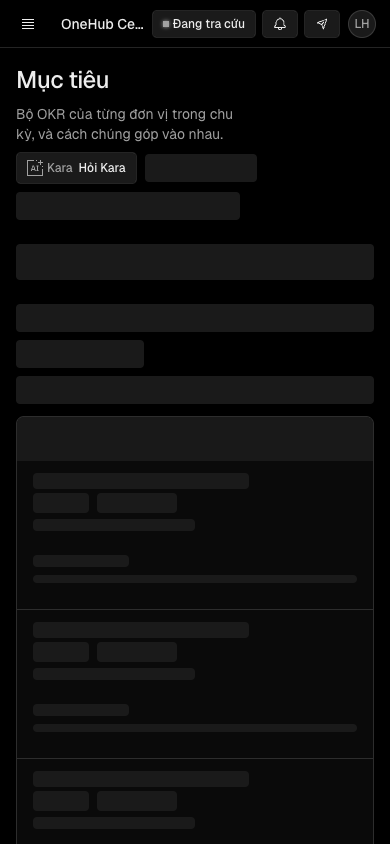
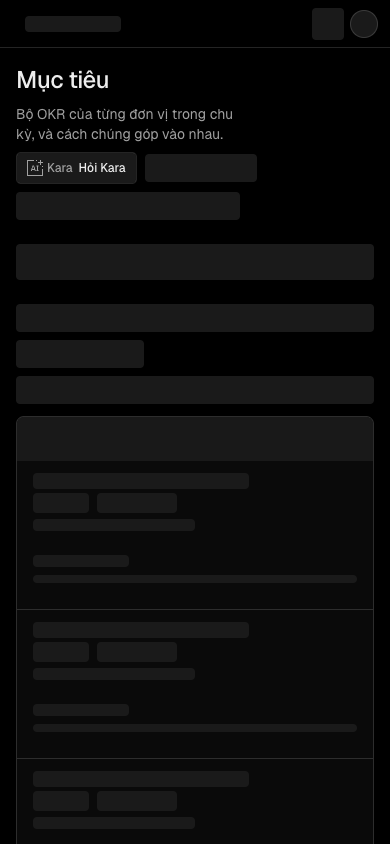
verify(khung-cho-don-vi-mot-hinh): S4 vòng 1 REJECT — suite app đỏ ở bài khung-man-chung (bảng hình của hồ sơ đã ký)

Changed region(s): [[0.3692, 0.0, 0.9538, 0.0616], [0.0615, 0.0, 0.3385, 0.0616]]

diff --git a/_acceptance/khung-cho-don-vi-mot-hinh/evidence-report.md b/_acceptance/khung-cho-don-vi-mot-hinh/evidence-report.md
@@ -1,0 +1,202 @@
+---
+schema_version: 2
+feature_slug: khung-cho-don-vi-mot-hinh
+verdict: REJECT
+failed_evals: []
+reason:
+verified_by: fresh-context verification subagent
+enforcement_mode: strict
+bypass_used: false
+verified_commit: 2338bd484502f1369e92b934c15a02b72e531c55
+human_signoff:
+---
+
+# Evidence Report: khung-cho-don-vi-mot-hinh
+
+Verdict tổng REJECT. Cả chín eval của hợp đồng đạt, nhưng một lệnh suite hồi quy không gắn eval nào cho kết quả không đạt: `bun run test -- --filter=app --filter=@crm/ui` (xem mục «Lệnh suite (hồi quy)» và Iterations). Danh sách `failed_evals` để trống vì lệnh này không thuộc eval nào.
+
+| Eval | Criterion | Executor | Verdict |
+|---|---|---|---|
+| E1 | AC-1 | script | PASS |
+| E2 | AC-2 | script | PASS |
+| E3 | AC-3 | script | PASS |
+| E4 | AC-4 | script | PASS |
+| E5 | AC-5 | test | PASS |
+| E6 | AC-6 | test | PASS |
+| E7 | AC-6 | script | PASS |
+| E8 | AC-7 | test | PASS |
+| E9 | AC-1, AC-4 | ui-check | PASS |
+
+## Evidence
+
+- eval: E1
+  run_id: minted-khung-cho-don-vi-mot-hinh-E1-r1
+  exit_code: 0
+  baseline: red
+  verifier: config:executors.script.kcd_man
+  verified_at: 2026-10-20T12:46:44Z
+  output: |
+    lệnh: bun scripts/lan-do/tien-de.mjs --chay "bun _acceptance/khung-cho-don-vi-mot-hinh/rang/man-khung-cho.mjs"
+    phien-do: xong — mã 0
+
+- eval: E2
+  run_id: minted-khung-cho-don-vi-mot-hinh-E2-r1
+  exit_code: 0
+  baseline: red
+  verifier: config:executors.script.kcd_man
+  verified_at: 2026-10-20T12:46:44Z
+  output: |
+    lệnh: bun scripts/lan-do/tien-de.mjs --chay "bun _acceptance/khung-cho-don-vi-mot-hinh/rang/man-khung-cho.mjs"
+    phien-do: xong — mã 0
+
+- eval: E3
+  run_id: minted-khung-cho-don-vi-mot-hinh-E3-r1
+  exit_code: 0
+  baseline: red
+  verifier: config:executors.script.kcd_man
+  verified_at: 2026-10-20T12:46:44Z
+  output: |
+    lệnh: bun scripts/lan-do/tien-de.mjs --chay "bun _acceptance/khung-cho-don-vi-mot-hinh/rang/man-khung-cho.mjs"
+    phien-do: xong — mã 0
+
+- eval: E4
+  run_id: minted-khung-cho-don-vi-mot-hinh-E4-r1
+  exit_code: 0
+  baseline: red
+  verifier: config:executors.script.kcd_man
+  verified_at: 2026-10-20T12:46:44Z
+  output: |
+    lệnh: bun scripts/lan-do/tien-de.mjs --chay "bun _acceptance/khung-cho-don-vi-mot-hinh/rang/man-khung-cho.mjs"
+    phien-do: xong — mã 0
+
+- eval: E5
+  run_id: minted-khung-cho-don-vi-mot-hinh-E5-r1
+  exit_code: 0
+  baseline: n-a
+  verifier: config:executors.test.kcd_cau_truc
+  verified_at: 2026-10-20T12:46:44Z
+  output: |
+    lệnh: cd apps/app && TZ=Asia/Ho_Chi_Minh bun test --timeout 10000 --preload ../../packages/ui/test/setup-dom.ts ./test/khung-cho-don-vi.dom.tsx -t kcd-cau-truc
+    Ran 3 tests across 1 file. [1108.00ms]
+
+- eval: E6
+  run_id: minted-khung-cho-don-vi-mot-hinh-E6-r1
+  exit_code: 0
+  baseline: green
+  verifier: config:executors.test.kmc_xuong
+  verified_at: 2026-10-20T12:46:44Z
+  output: |
+    lệnh: cd packages/ui && bun test --preload ./test/setup-dom.ts ./test/khung-xuong.dom.tsx
+    Ran 24 tests across 1 file. [519.00ms]
+
+- eval: E7
+  run_id: minted-khung-cho-don-vi-mot-hinh-E7-r1
+  exit_code: 0
+  baseline: n-a
+  verifier: config:executors.script.kcd_trang_khac
+  verified_at: 2026-10-20T12:46:44Z
+  output: |
+    lệnh: node _acceptance/khung-cho-don-vi-mot-hinh/rang/trang-khac.mjs
+    AC-6: 9 trang dung bang · bang-hai-dong o [slug]/okr/theo-don-vi
+
+- eval: E8
+  run_id: minted-khung-cho-don-vi-mot-hinh-E8-r1
+  exit_code: 0
+  baseline: n-a
+  verifier: config:executors.test.kcd_a11y
+  verified_at: 2026-10-20T12:46:44Z
+  output: |
+    lệnh: cd apps/app && TZ=Asia/Ho_Chi_Minh bun test --timeout 10000 --preload ../../packages/ui/test/setup-dom.ts ./test/khung-cho-don-vi.dom.tsx -t kcd-a11y
+    Ran 4 tests across 1 file. [766.00ms]
+
+- eval: E9
+  run_id: minted-khung-cho-don-vi-mot-hinh-E9-r1
+  exit_code: 0
+  baseline: n-a
+  verifier: config:executors.script.kcd_man
+  verified_at: 2026-10-20T12:46:44Z
+  screenshot: evidence/E9-khung-1440.png
+  observed: |
+    Đã mở bằng Read từng ảnh.
+    1) E9-khung-1440.png: tiêu đề «Mục tiêu» + câu mô tả thật; bên phải có nút Kara «Hỏi Kara» thật cùng hai thanh xương (kỳ, nút thêm). Dưới tiêu đề: một thanh xương dài thay hàng thẻ con. Hàng công cụ xương y≈220-248: ba thanh trái (ô chọn đơn vị, nhóm nút xem, chip lọc) và ba thanh phải (Lọc, Sắp xếp, Cột). Thân bảng: khung bo góc, đầu bảng xương y≈261-305, năm dòng hai tầng cao 65 (tầng trên: thanh dài + hai nhãn; tầng dưới: thanh ngắn; bên phải ba thanh tiến độ/tình trạng/phụ trách). Không vòng quay, không vạch tràn ngang.
+    2) E9-bang-1440.png: cùng khổ, bảng đã dựng: tiêu đề «Mục tiêu», Kara, ô «Quý 4 · mẫu», nút «Thêm mục tiêu»; thẻ con Của tôi · Theo đơn vị · Toàn cảnh · Lấy ý kiến; hàng công cụ thật cũng ở y≈220-248 (ô chọn «Pháp chế», Danh sách, Sơ đồ góp vào, Họp tuần, Tất cả 3, Cần bàn 0, Chưa góp vào đâu 1; Lọc, Sắp xếp, Cột (4)); đầu bảng y≈261-305 (Mục tiêu, Tiến độ, Tình trạng, Phụ trách); ba dòng mục tiêu hai tầng cao 65 (tiêu đề + nhãn Cam kết/Đã công bố, dưới là «2 KR · góp vào 1 chỗ»). Đặt cạnh khung 1440: hàng công cụ, đầu bảng và các dòng hai tầng trùng chỗ và trùng chiều cao (khớp «lệch 0»). Khác biệt duy nhất: bảng thật 3 dòng, khung 5 dòng; chân trang thống kê chỉ có ở bảng.
+    3) E9-khung-390.png: ảnh 390 rộng, một cột; tiêu đề + mô tả hai dòng, «Hỏi Kara» thật và thanh xương, thanh xương nút thêm, thanh thẻ con, ba thanh xương xếp dọc cho hàng công cụ (ô chọn, ô chọn nhỏ, Lọc), rồi thân bảng với đầu bảng xương và dòng hai tầng xương (tầng trên thanh dài + hai nhãn, giữa thanh ngắn, dưới thanh dài toàn bề rộng). Mọi vạch nằm trong lề 16px, không tràn ngang.
+    4) E9-bang-390.png: cùng khổ, bảng đã dựng: tiêu đề, mô tả, Hỏi Kara, «Quý 4 · mẫu», «···», nút «Thêm mục tiêu» xuống dòng; thẻ con; ô chọn «Pháp chế», ô chọn nhỏ, «Lọc» xếp dọc đúng ba vị trí của ba thanh xương; đầu bảng «Mục tiêu»; dòng thật hai/ba tầng (tiêu đề, nhãn, «2 KR · góp vào 1 chỗ · An Khánh Linh», «Tính từ 2 KR» + thanh tiến độ, trạng thái). Không tràn ngang. Dòng thật 149-165 (dòng thứ hai 165 vì tiêu đề xuống hai dòng), khung 149: lệch chiều cao dòng có thật nhưng nhỏ và thước khai báo dòng 149 là khớp đúng với dòng đầu; vị trí hàng công cụ và đầu bảng lệch 0.
+    5) E9-doi-don-1440.png: lúc thân bảng còn là khung (5 dòng xương, đầu bảng xương) nhưng hàng công cụ đã thật: ô chọn đơn vị thật «Kinh doanh miền Bắc» (đã đổi đơn vị từ Pháp chế), nhãn «Danh sách», «Sơ đồ góp vào», «Họp tuần» thật, kèm một thanh xương cho phần chip chưa có số, ba thanh xương cho Lọc/Sắp xếp/Cột; thẻ con thật, «Quý 4 · mẫu» thật, nút «Thêm mục tiêu» còn là thanh xương. Đỉnh ô chọn lệch 0 so với khung. Khớp Expected: ảnh đổi đơn vị có ô chọn đơn vị thật trên khung.
+    Kết luận đối chiếu: không có mâu thuẫn với Expected; khung đặt cạnh bảng cùng khổ khớp ở hàng công cụ, đầu bảng, dòng hai tầng; 390 không tràn ngang; ảnh đổi đơn vị có ô chọn thật.
+  network_observed: n-a (driver)
+  output: |
+    Kích thước ảnh: khung-1440, bang-1440, doi-don-1440 đều 1440x900; khung-390 và bang-390 đều 390x844. Năm ảnh có mặt trong evidence/ (ghi lại lúc 19:48-19:49 của lượt chạy này).
+    Frame đã lưu: E9-khung-1440.png, E9-bang-1440.png, E9-khung-390.png, E9-bang-390.png, E9-doi-don-1440.png (thư mục _acceptance/khung-cho-don-vi-mot-hinh/evidence/).
+    Dùng thước của kho (script Playwright), không dùng capture.ui riêng. E9-khung-390.png đổi so với bản đã commit (17408 sang 14517 byte), nội dung khung vẫn đúng; ba ảnh kia giữ nguyên số byte. Không commit.
+    Network: driver là script chạy trình duyệt trong phiên đo, không có công cụ đọc network; log không có dòng error, failed hay 5xx; ghi n-a (driver), không viết E9-network.txt.
+
+### Lệnh suite (hồi quy)
+
+- cmd: bun run test -- --filter=api
+  run_id: minted-khung-cho-don-vi-mot-hinh-SUITE-bun_run_test_filter_api-r1
+  exit_code: 0
+  verified_at: 2026-10-20T12:46:44Z
+
+- cmd: bun run test -- --filter=app --filter=@crm/ui
+  run_id: minted-khung-cho-don-vi-mot-hinh-SUITE-bun_run_test_filter_app_filter_crm_ui-r1
+  exit_code: 1
+  verified_at: 2026-10-20T12:46:44Z
+  note: lệnh này không gắn eval nào và là lý do verdict tổng là REJECT; hai ca không đạt nằm ở apps/app/test/khung-man-chung.spec.ts
+  output: |
+    app:test: 2 tests failed:
+    app:test: (fail) hinh-theo-man > bang hinh bang dung tap tep goc va moi tep dung hinh [58.14ms]
+    app:test: (fail) checkout-nong > thieu commit goc: bo phep so, chi mot dong ghi chu [20.41ms]
+    app:test:  923 pass
+    app:test:  2 fail
+    app:test: Ran 925 tests across 93 files. [7.92s]
+    Failed: app#test
+
+- cmd: bun run test -- --filter=agent --filter=@crm/auth --filter=@crm/db
+  run_id: minted-khung-cho-don-vi-mot-hinh-SUITE-bun_run_test_filter_agent_filter_crm_aut-r1
+  exit_code: 0
+  verified_at: 2026-10-20T12:46:44Z
+
+- cmd: bun run test -- --filter=agent-okr --filter=@crm/env --filter=@crm/ai-okr --filter=@crm/telemetry --filter=@crm/validation
+  run_id: minted-khung-cho-don-vi-mot-hinh-SUITE-bun_run_test_filter_agent_okr_filter_crm-r1
+  exit_code: 0
+  verified_at: 2026-10-20T12:46:44Z
+
+- cmd: bunx turbo run lint --force
+  run_id: minted-khung-cho-don-vi-mot-hinh-SUITE-bunx_turbo_run_lint_force-r1
+  exit_code: 0
+  verified_at: 2026-10-20T12:46:44Z
+
+- cmd: bun run lint:slop
+  run_id: minted-khung-cho-don-vi-mot-hinh-SUITE-bun_run_lint_slop-r1
+  exit_code: 0
+  verified_at: 2026-10-20T12:46:44Z
+
+- cmd: bunx turbo run build --force
+  run_id: minted-khung-cho-don-vi-mot-hinh-SUITE-bunx_turbo_run_build_force-r1
+  exit_code: 0
+  verified_at: 2026-10-20T12:46:44Z
+
+## Known limits
+
+## Ngoài hợp đồng
+
+## Analyst
+
+Eval không phân biệt (xanh trên cả HEAD lẫn baseline), chứng minh harness chứ không chứng minh feature; nên viết lại để assert hành vi mới hoặc xác nhận là regression-guard có chủ ý:
+
+- E6 (`cd packages/ui && bun test --preload ./test/setup-dom.ts ./test/khung-xuong.dom.tsx`): baseline green.
+
+Baseline khong do
+
+- cd apps/app && TZ=Asia/Ho_Chi_Minh bun test --timeout 10000 --preload ../../packages/ui/test/setup-dom.ts ./test/khung-cho-don-vi.dom.tsx -t kcd-cau-truc: bo qua baseline: tep apps/app/test/khung-cho-don-vi.dom.tsx co o cay dang kiem nhung chua co o merge-base fb58ef9726823ff78ba5bb9fc11102c99febbd05 — eval moi, chay tren code cu khong phan biet gi
+- node _acceptance/khung-cho-don-vi-mot-hinh/rang/trang-khac.mjs: bo qua baseline: tep _acceptance/khung-cho-don-vi-mot-hinh/rang/trang-khac.mjs co o cay dang kiem nhung chua co o merge-base fb58ef9726823ff78ba5bb9fc11102c99febbd05 — eval moi, chay tren code cu khong phan biet gi
+- cd apps/app && TZ=Asia/Ho_Chi_Minh bun test --timeout 10000 --preload ../../packages/ui/test/setup-dom.ts ./test/khung-cho-don-vi.dom.tsx -t kcd-a11y: bo qua baseline: tep apps/app/test/khung-cho-don-vi.dom.tsx co o cay dang kiem nhung chua co o merge-base fb58ef9726823ff78ba5bb9fc11102c99febbd05 — eval moi, chay tren code cu khong phan biet gi
+
+## Variance
+
+none — every multi-run eval is uniform
+
+## Iterations
+
+Round 1: không eval nào của hợp đồng đạt thiếu, nhưng lệnh suite `bun run test -- --filter=app --filter=@crm/ui` (không gắn eval) cho hai ca không đạt trong apps/app/test/khung-man-chung.spec.ts: `hinh-theo-man > bang hinh bang dung tap tep goc va moi tep dung hinh` và `checkout-nong > thieu commit goc`. Nguyên nhân theo bước rà soát (review-findings.md): fallback của okr/theo-don-vi/page.tsx đổi sang KhungDangTaiDonVi và hang-cong-cu.tsx dùng KhungXuong hinh="bang-hai-dong", còn bảng hình apps/app/test/fixtures/khung-man-chung-hinh.json chưa cập nhật. Trả về bước cài đặt.

diff --git a/_acceptance/khung-cho-don-vi-mot-hinh/review-findings.md b/_acceptance/khung-cho-don-vi-mot-hinh/review-findings.md
@@ -1,0 +1,60 @@
+# Review findings: khung-cho-don-vi-mot-hinh (round 1)
+
+## Trong hợp đồng
+
+Không có finding nào map được vào AC.
+
+## Ngoài hợp đồng — người quyết ở Gate 2
+
+Các lỗi dưới đây nằm ngoài phạm vi đã duyệt ở Cổng Phạm vi và CHƯA qua bác bỏ đối kháng — người quyết, máy không sửa và không chấm thứ máy không được sửa.
+
+- **Toolbar layout class strings copy-pasted from apps/app into packages/ui**
+  Người dùng thấy gì: Hàng công cụ lúc đang tải và lúc đã tải đang được định dạng từ hai chỗ riêng. Hôm nay hai bên khớp nhau, nhưng sau này ai sửa một bên mà quên bên kia thì khung chờ sẽ lệch khỏi trang thật mà không ai báo.
+  Căn cứ: Người dùng chưa thấy gì sai ở hiện tại, chỉ có rủi ro lệch hình về sau, và sửa lúc đó chỉ là chỉnh lại cho khớp nên rẻ.
+  file: `packages/ui/src/components/khung-xuong.tsx`
+  severity: medium
+  Đề xuất: known-limits
+
+- **New acceptance scripts add code comments despite the 'Never add code comments' rule**
+  Người dùng thấy gì: Vài tệp kiểm tra nội bộ của đợt này còn lời chú thích mà quy ước kho không cho phép. Người dùng cuối không thấy và không bị ảnh hưởng.
+  Căn cứ: Chỉ là chuyện quy ước viết mã trong tệp kiểm tra nội bộ, không ảnh hưởng người dùng, và xoá chú thích bất cứ lúc nào cũng rẻ.
+  file: `_acceptance/khung-cho-don-vi-mot-hinh/rang/hai-chieu.mjs`
+  severity: low
+  Đề xuất: wont-fix
+
+- **Đổi fallback và dùng KhungXuong trong hang-cong-cu.tsx làm đỏ bài khung-man-chung.spec.ts, mà fixture của bài này chưa được cập nhật**
+  Người dùng thấy gì: Một bài kiểm tự động có sẵn của kho sẽ báo đỏ vì danh sách khung chờ chưa được cập nhật theo trang Theo đơn vị mới. Người dùng mở trang vẫn thấy đúng, nhưng đội làm sẽ bị chặn khi đẩy mã lên cho đến khi sửa.
+  Căn cứ: Không làm hỏng gì cho người dùng, nhưng làm bộ kiểm của kho đỏ và chặn việc gộp mã; sửa nhanh và an toàn vì chỉ chỉnh danh sách khai báo.
+  file: `apps/app/test/fixtures/khung-man-chung-hinh.json`
+  severity: high
+  Đề xuất: new-contract
+
+- **man-khung-cho.mjs cho AC-1, AC-3 và AC-4 đạt khi mọi mẫu chỉ là mẫu «lạ», không có mẫu bang-hai-dong nào**
+  Người dùng thấy gì: Phép đo tự động có thể báo đạt dù nó không bắt được khung chờ đúng hình trong một số tình huống hiếm. Trang thật hiện vẫn hiển thị đúng; rủi ro là một lần hỏng sau này lọt qua phép đo.
+  Căn cứ: Người dùng không bị ảnh hưởng ngay, chỉ là lưới đo kém chặt trong tình huống hiếm, và sau này siết lại phép đo không làm mất dữ liệu của ai.
+  file: `_acceptance/khung-cho-don-vi-mot-hinh/rang/man-khung-cho.mjs`
+  severity: medium
+  Đề xuất: known-limits
+
+- **Shape 4 (negative check with no pinned message): neither of E2's two declared break tests pins an AC-2 message**
+  Người dùng thấy gì: Khi bấm sang thẻ Theo đơn vị từ thẻ khác, việc khung chờ đúng hình hiện vẫn đạt, nhưng chưa có bằng chứng bài kiểm sẽ báo đỏ nếu phần này hỏng. Người dùng hôm nay không thấy khác biệt.
+  Căn cứ: Chỉ làm giảm độ tin cậy của lưới kiểm cho một đường đi, không ảnh hưởng người dùng hiện tại, và bổ sung bài thử sau này rẻ.
+  file: `_acceptance/khung-cho-don-vi-mot-hinh/rang/hai-chieu.mjs`
+  severity: high
+  Đề xuất: known-limits
+
+- **Shape 2 (hand-written fixture shaped to the reader): the unit picker in the a11y test is a stand-in `<button data-chon-don-vi>`, not the real ChonDonVi**
+  Người dùng thấy gì: Bài kiểm tiêu điểm bàn phím dùng một nút giả thay cho ô chọn đơn vị thật, nên chưa chứng minh được người dùng bàn phím vào được ô chọn thật lúc đang tải. Chưa có dấu hiệu ô thật hỏng.
+  Căn cứ: Nguy cơ thấp vì chỉ là bằng chứng chưa đầy đủ chứ chưa thấy lỗi thật, người dùng gặp thì tải lại là xong, và đổi sang ô thật khi cần không tốn nhiều.
+  file: `apps/app/test/khung-cho-don-vi.dom.tsx`
+  severity: medium
+  Đề xuất: known-limits
+
+- **Shape 4 (negative-only assertion with no positive control): the scan's Skeleton-import branch is never shown red, and it matches the import's local name rather than the module path**
+  Người dùng thấy gì: Bộ quét chặn việc vẽ khung chờ bằng tay có thể bỏ sót vài cách viết lạ, nên sau này ai đó vẽ lại khung riêng có thể không bị bắt. Trang hiện tại không bị ảnh hưởng.
+  Căn cứ: Hôm nay người dùng không gặp gì, chỉ là lưới chặn tái phạm hơi lỏng ở vài kiểu viết hiếm, và siết lại sau cũng rẻ.
+  file: `apps/app/test/khung-cho-don-vi.dom.tsx`
+  severity: medium
+  Đề xuất: known-limits
+
+⚠ Cụm ngoài vùng phủ: 3/7 lỗi rơi vào file không bộ đo nào phủ (_acceptance/khung-cho-don-vi-mot-hinh/rang/hai-chieu.mjs, apps/app/test/fixtures/khung-man-chung-hinh.json) — dừng và quyết: mở rộng hợp đồng hay rút phạm vi.

diff --git a/_acceptance/khung-cho-don-vi-mot-hinh/usage-report.md b/_acceptance/khung-cho-don-vi-mot-hinh/usage-report.md
@@ -1,0 +1,42 @@
+### S4 round 1 — wf_49fd1d79-3f2 (20 agent, 36,112 out-tok)
+
+| label | model | calls | out | in | cache_read | s |
+|---|---|--:|--:|--:|--:|--:|
+| synthesize:report | claude-sonnet-5-5 | 3 | 11,645 | 6 | 142,521 | 65 |
+| triage | claude-sonnet-5-5 | 2 | 4,684 | 4 | 48,896 | 44 |
+| ui:E9 | claude-sonnet-5-5 | 9 | 4,161 | 18 | 881,197 | 171 |
+| review:measurement | claude-opus-5-5 | 13 | 4,077 | 26 | 984,080 | 186 |
+| review:bugs | claude-opus-5-5 | 23 | 2,002 | 46 | 2,058,092 | 147 |
+| machine:bun run test -- --filter=agent --filter= | claude-haiku-5-5 | 2 | 1,925 | 4 | 47,020 | 301 |
+| machine:bun scripts/lan-do/tien-de.mjs --chay "b | claude-haiku-5-5 | 2 | 1,787 | 4 | 47,022 | 70 |
+| review:conventions | claude-opus-5-5 | 8 | 1,599 | 16 | 454,817 | 78 |
+| machine:bun run test -- --filter=app --filter=@c | claude-haiku-5-5 | 2 | 1,562 | 4 | 47,011 | 93 |
+| machine:bunx turbo run lint --force | claude-haiku-5-5 | 2 | 315 | 4 | 46,995 | 9 |
+| machine:bun run test -- --filter=agent-okr --fil | claude-haiku-5-5 | 2 | 301 | 4 | 47,050 | 71 |
+| machine:bun run test -- --filter=api | claude-haiku-5-5 | 2 | 301 | 4 | 46,956 | 288 |
+| machine:bunx turbo run build --force | claude-haiku-5-5 | 2 | 294 | 4 | 46,993 | 25 |
+| baseline:diffBase | claude-sonnet-5-5 | 2 | 255 | 4 | 48,521 | 39 |
+| machine:cd apps/app && TZ=Asia/Ho_Chi_Minh bun t | claude-haiku-5-5 | 2 | 231 | 4 | 47,054 | 8 |
+| machine:cd apps/app && TZ=Asia/Ho_Chi_Minh bun t | claude-haiku-5-5 | 2 | 218 | 4 | 47,052 | 10 |
+| machine:bun run lint:slop | claude-haiku-5-5 | 2 | 214 | 4 | 46,989 | 9 |
+| machine:node _acceptance/khung-cho-don-vi-mot-hi | claude-haiku-5-5 | 2 | 201 | 4 | 46,994 | 9 |
+| machine:cd packages/ui && bun test --preload ./t | claude-haiku-5-5 | 2 | 194 | 4 | 46,994 | 9 |
+| capture:provenance | claude-sonnet-5-5 | 2 | 146 | 4 | 42,816 | 18 |
+
+
+wall: 959s
+
+| vai tro | agents | out | cache_read | wall s | bat dau | ket thuc |
+|---|--:|--:|--:|--:|---|---|
+| baseline | 1 | 255 | 48,521 | 39 | 12:47:24 | 12:48:03 |
+| machine | 12 | 7,543 | 564,130 | 821 | 12:47:24 | 13:01:06 |
+| ui | 1 | 4,161 | 881,197 | 171 | 12:47:24 | 12:50:15 |
+| review | 3 | 7,678 | 3,496,989 | 187 | 12:47:24 | 12:50:32 |
+| triage | 1 | 4,684 | 48,896 | 44 | 13:01:08 | 13:01:53 |
+| capture | 1 | 146 | 42,816 | 18 | 13:01:55 | 13:02:14 |
+| synthesize | 1 | 11,645 | 142,521 | 66 | 13:02:18 | 13:03:24 |
+
+- **claude-sonnet-5-5**: 5 agent · 18 calls · out 20,891 · in 36 · cache_read 1,163,951 · cache_create 366,538
+- **claude-opus-5-5**: 3 agent · 44 calls · out 7,678 · in 88 · cache_read 3,496,989 · cache_create 308,757
+- **claude-haiku-5-5**: 12 agent · 24 calls · out 7,543 · in 48 · cache_read 564,130 · cache_create 568,951
+
